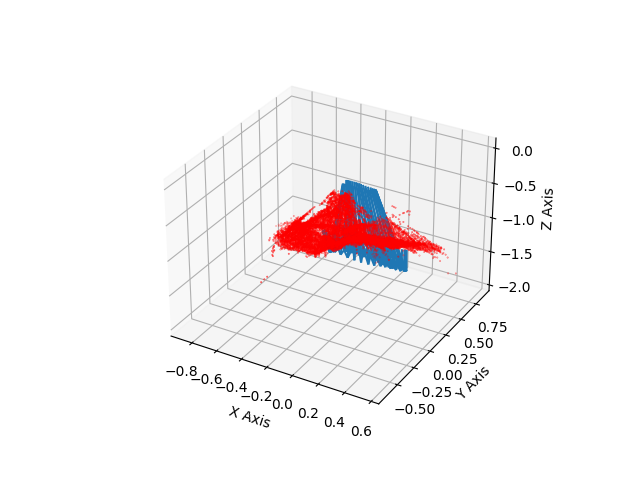
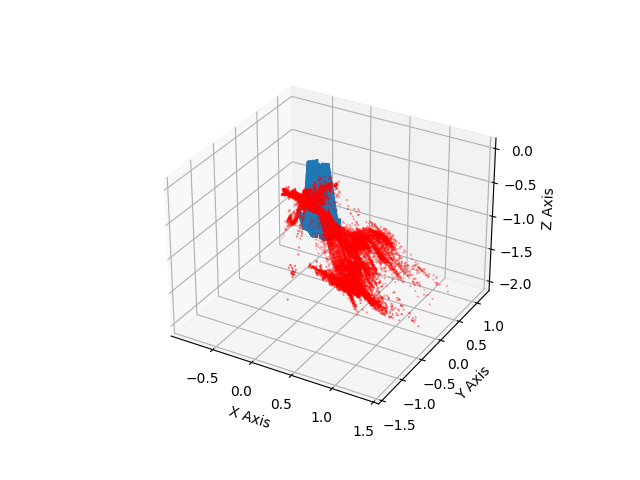
v1.1

diff --git a/gaussian_renderer/__init__.py b/gaussian_renderer/__init__.py
@@ -17,7 +17,7 @@ from scene.gaussian_model import GaussianModel
 from utils.sh_utils import eval_sh
 from time import time as get_time
 
-def generate_neural_gaussians(viewpoint_camera, pc : GaussianModel, visible_mask=None, is_training=False):
+def generate_neural_gaussians_original(viewpoint_camera, pc : GaussianModel, visible_mask=None, is_training=False):
     ## view frustum filtering for acceleration    
     if visible_mask is None:
         visible_mask = torch.ones(pc.get_anchor.shape[0], dtype=torch.bool, device = pc.get_anchor.device)
@@ -132,6 +132,122 @@ def generate_neural_gaussians(viewpoint_camera, pc : GaussianModel, visible_mask
     else:
         return xyz, color, opacity, scaling, rot
 
+def generate_neural_gaussians(viewpoint_camera, pc : GaussianModel, visible_mask=None, is_training=False):
+    ## view frustum filtering for acceleration    
+    if visible_mask is None:
+        visible_mask = torch.ones(pc.get_anchor.shape[0], dtype=torch.bool, device = pc.get_anchor.device)
+    
+    # visible_mask에 True가 몇 개인지 확인
+    # print("visible_mask:",visible_mask.sum()) # 너무 큼
+
+    feat = pc._anchor_feat[visible_mask]
+    anchor = pc.get_anchor[visible_mask]
+    grid_offsets = pc._offset[visible_mask]
+    grid_scaling = pc.get_scaling[visible_mask]
+
+    ## get view properties for anchor
+    #print("anchor device:",anchor.device) # cuda:0
+    #print("viewpoint_camera.camera_center device:",viewpoint_camera.camera_center.device) # cpu
+    viewpoint_camera.camera_center = viewpoint_camera.camera_center.cuda()
+    ob_view = anchor - viewpoint_camera.camera_center
+    # dist
+    ob_dist = ob_view.norm(dim=1, keepdim=True)
+    # view
+    ob_view = ob_view / ob_dist
+
+    ## view-adaptive feature
+    if pc.use_feat_bank:
+        cat_view = torch.cat([ob_view, ob_dist], dim=1)
+        
+        bank_weight = pc.get_featurebank_mlp(cat_view).unsqueeze(dim=1) # [n, 1, 3]
+
+        ## multi-resolution feat
+        feat = feat.unsqueeze(dim=-1)
+        feat = feat[:,::4, :1].repeat([1,4,1])*bank_weight[:,:,:1] + \
+            feat[:,::2, :1].repeat([1,2,1])*bank_weight[:,:,1:2] + \
+            feat[:,::1, :1]*bank_weight[:,:,2:]
+        feat = feat.squeeze(dim=-1) # [n, c]
+
+
+    cat_local_view = torch.cat([feat, ob_view, ob_dist], dim=1) # [N, c+3+1]
+    cat_local_view_wodist = torch.cat([feat, ob_view], dim=1) # [N, c+3]
+    if pc.appearance_dim > 0:
+        #camera_indicies = torch.ones_like(cat_local_view[:,0], dtype=torch.long, device=ob_dist.device) * viewpoint_camera.uid
+        camera_indicies = torch.ones_like(cat_local_view[:,0], dtype=torch.long, device=ob_dist.device) * 10 # 왜 인지는 모르겠지만 이렇게 하니까 cuda error가 발생하지 않음
+            
+        appearance = pc.get_appearance(camera_indicies)
+
+    # get offset's opacity
+    if pc.add_opacity_dist:
+        neural_opacity = pc.get_opacity_mlp(cat_local_view) # [N, k]
+    else:
+        # print("cat_local_view_wodist:",cat_local_view_wodist.shape) # 얘는 죄가 없음
+        #print("camera_indicies:",camera_indicies) # camera_indicies: torch.Size([10562])
+        neural_opacity = pc.get_opacity_mlp(cat_local_view_wodist) 
+        # 여기서 계속 CUDA error 발생함
+        # CUBLAS_STATUS_EXECUTION_FAILED --> dimension mistmatch이슈가 많다고 함
+        # cat_local_view_wodist: shape torch.size([10562, 35])
+
+
+    # opacity mask generation
+    neural_opacity = neural_opacity.reshape([-1, 1])
+    mask = (neural_opacity>0.0)
+    mask = mask.view(-1)
+    #print("mask:",mask.shape) # mask: torch.Size([105620])
+    #print("neural_opacity:",neural_opacity.shape) # neural_opacity: torch.Size([105620, 1])
+
+    # select opacity 
+    opacity = neural_opacity[mask]
+    # neural_opacity: 105620, 1
+    # mask: 105620
+
+    # get offset's color
+    if pc.appearance_dim > 0:
+        if pc.add_color_dist:
+            color = pc.get_color_mlp(torch.cat([cat_local_view, appearance], dim=1))
+        else:
+            color = pc.get_color_mlp(torch.cat([cat_local_view_wodist, appearance], dim=1))
+    else:
+        if pc.add_color_dist:
+            color = pc.get_color_mlp(cat_local_view)
+        else:
+            color = pc.get_color_mlp(cat_local_view_wodist)
+    color = color.reshape([anchor.shape[0]*pc.n_offsets, 3])# [mask]
+
+    # get offset's cov
+    if pc.add_cov_dist:
+        scale_rot = pc.get_cov_mlp(cat_local_view)
+    else:
+        scale_rot = pc.get_cov_mlp(cat_local_view_wodist)
+    scale_rot = scale_rot.reshape([anchor.shape[0]*pc.n_offsets, 7]) # [mask]
+    
+    # offsets
+    offsets = grid_offsets.view([-1, 3]) # [mask]
+    
+    # combine for parallel masking
+    concatenated = torch.cat([grid_scaling, anchor], dim=-1)
+    concatenated_repeated = repeat(concatenated, 'n (c) -> (n k) (c)', k=pc.n_offsets)
+    concatenated_all = torch.cat([concatenated_repeated, color, scale_rot, offsets], dim=-1)
+    masked = concatenated_all[mask]
+    scaling_repeat, repeat_anchor, color, scale_rot, offsets = masked.split([6, 3, 3, 7, 3], dim=-1)
+    
+    # post-process cov
+    # modified !!! - s.kwak
+    # scaling = scaling_repeat[:,3:] * torch.sigmoid(scale_rot[:,:3]) # * (1+torch.sigmoid(repeat_dist))
+    
+    # modified!!! - s.kwak
+    #rot = pc.rotation_activation(scale_rot[:,3:7])
+    rot = scale_rot[:,3:7]
+    
+    # post-process offsets to get centers for gaussians
+    offsets = offsets * scaling_repeat[:,:3]
+    xyz = repeat_anchor + offsets
+
+    if is_training:
+        return xyz, color, opacity, scaling_repeat[:,3:], scale_rot[:,:3], rot, neural_opacity, mask
+    else:
+        return xyz, color, opacity, scaling_repeat[:,3:], scale_rot[:,:3], rot
+
 
 def render(gvc_params, viewpoint_camera, pc : GaussianModel, pipe, bg_color : torch.Tensor, scaling_modifier = 1.0, 
            override_color = None, stage="fine", cam_type=None, visible_mask=None, retain_grad=False):
@@ -182,10 +298,16 @@ def render_test1(gvc_params, viewpoint_camera, pc : GaussianModel, pipe, bg_colo
     is_training = pc.get_color_mlp.training
            
     # anchor 인근의 neural gaussian을 생성한다. 
+    #if is_training:
+    #    xyz, color, opacity, scaling, rot, neural_opacity, mask = generate_neural_gaussians(viewpoint_camera, pc, visible_mask, is_training=is_training)
+    #else:
+    #    xyz, color, opacity, scaling, rot = generate_neural_gaussians(viewpoint_camera, pc, visible_mask, is_training=is_training) 
+
+    # modified!!!!
     if is_training:
-        xyz, color, opacity, scaling, rot, neural_opacity, mask = generate_neural_gaussians(viewpoint_camera, pc, visible_mask, is_training=is_training)
+        xyz, color, opacity, scaling_repeat, scaling, rot, neural_opacity, mask = generate_neural_gaussians(viewpoint_camera, pc, visible_mask, is_training=is_training)
     else:
-        xyz, color, opacity, scaling, rot = generate_neural_gaussians(viewpoint_camera, pc, visible_mask, is_training=is_training) 
+        xyz, color, opacity, scaling_repeat, scaling, rot = generate_neural_gaussians(viewpoint_camera, pc, visible_mask, is_training=is_training) 
 
     # screenspace point 생성
     screenspace_points = torch.zeros_like(xyz, dtype=pc.get_anchor.dtype, requires_grad=True, device="cuda") + 0
@@ -272,6 +394,10 @@ def render_test1(gvc_params, viewpoint_camera, pc : GaussianModel, pipe, bg_colo
     # fine elif 문 안에 있던걸 밖으로 뺐음
 
     #scales_final = pc.scaling_activation(scales_final) 
+    
+    # modified!!!
+    scales_final = scaling_repeat * torch.sigmoid(scales_final) 
+                
     rotations_final = pc.rotation_activation(rotations_final)
     #opacity_final = pc.opacity_activation(opacity_final)
 
